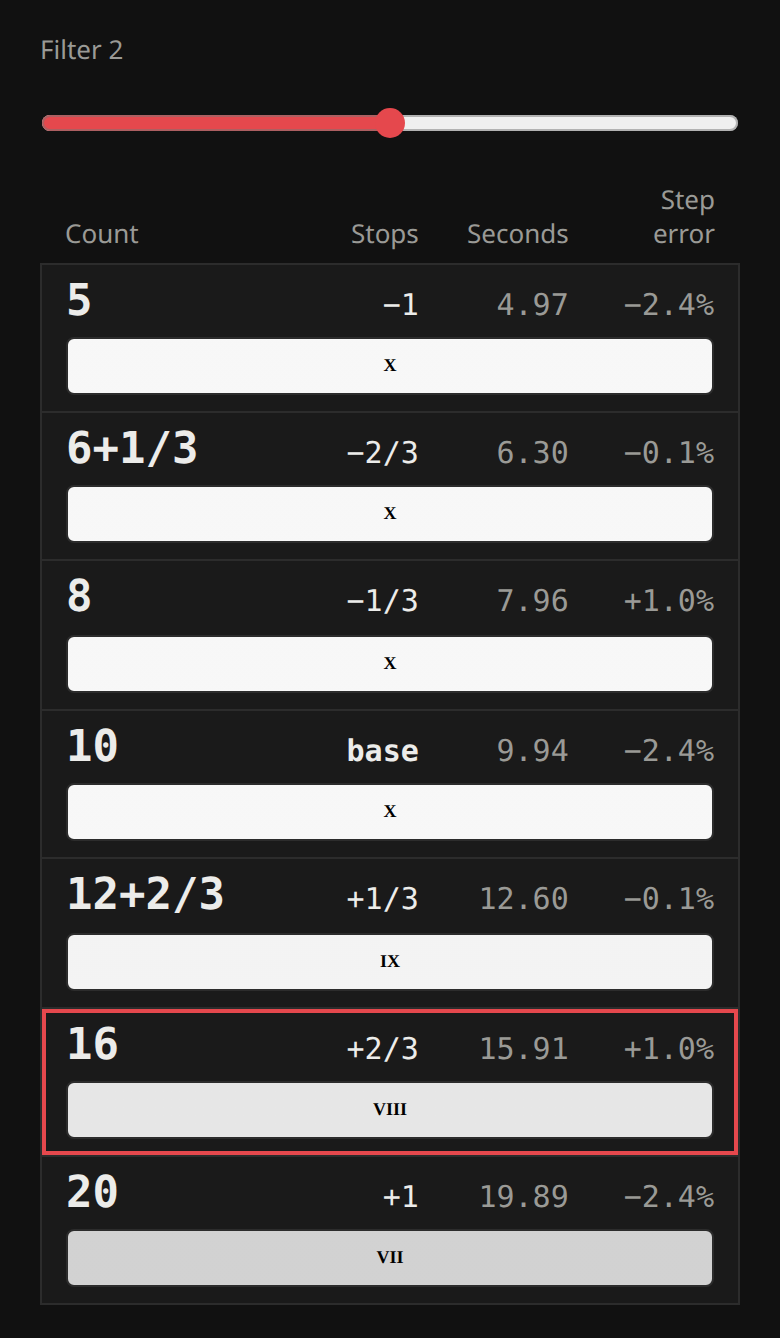
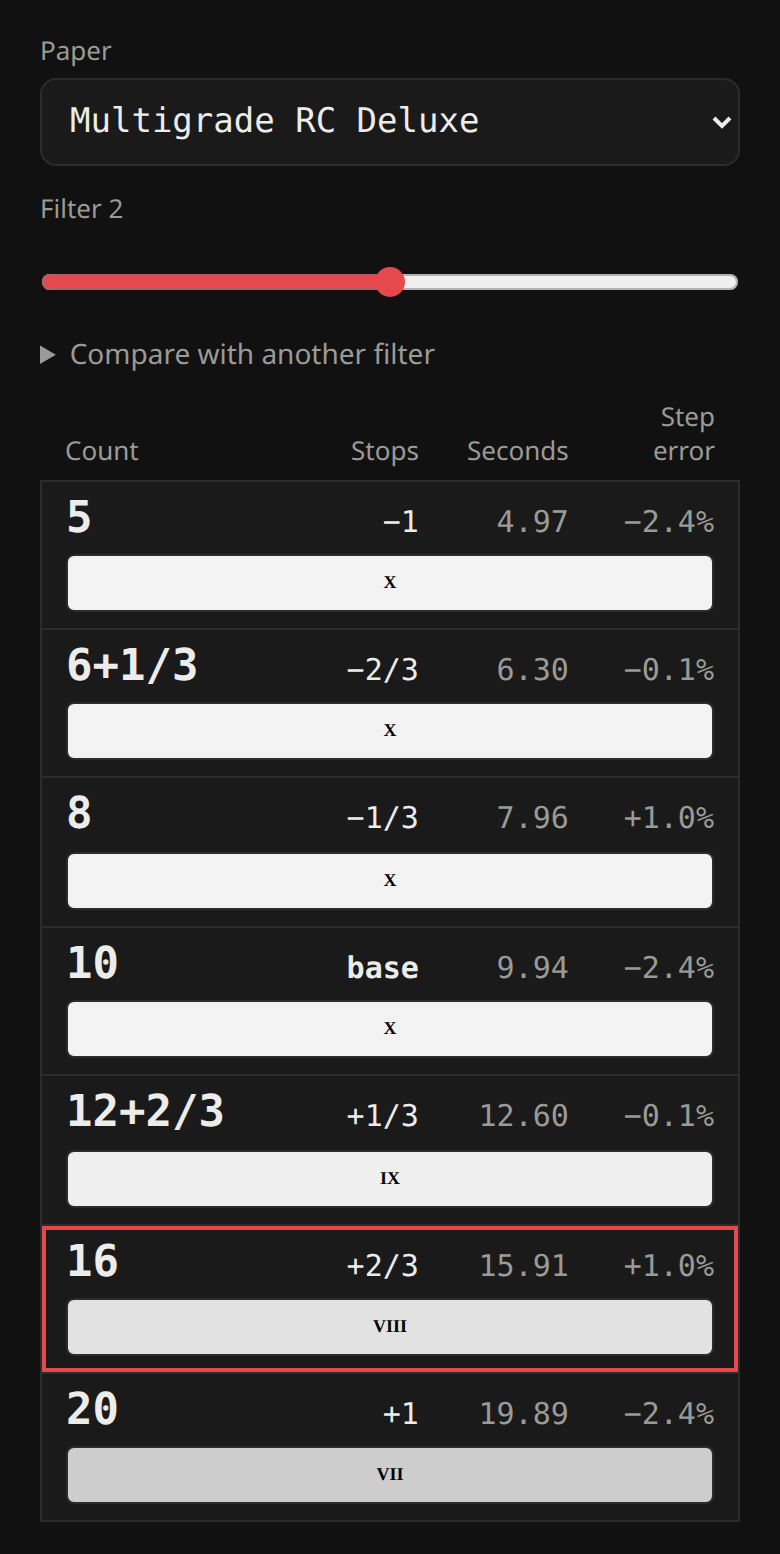
README for timer and papers

diff --git a/README.md b/README.md
@@ -1,5 +1,5 @@
 # striptest
-A tool to quickly find optimal tempo settings for f/stop printing with a physical metronome in the darkroom.
+A tool for planning f/stop teststrips in the darkroom, and for finding the optimal tempo settings for timing them with a physical metronome.
 
 **Use it right here: https://binflush.github.io/striptest/**
 ## Overview
@@ -7,11 +7,11 @@ A tool to quickly find optimal tempo settings for f/stop printing with a physica
 
 It started out as a Python script that I wrote for my own use, to be run on a laptop while planning a printing session. That works fine, but it is not very portable, and the computer I actually carry around is a phone. So the whole thing has been reimplemented as a website, which does the same calculation directly in your browser. There is nothing to install, it fits on a phone screen, and nothing you type is sent anywhere.
 
-The Python script is still here and still works. It is in fact the reference: the website is tested against it on thousands of random settings, so the two always agree on the tempo and the counts. The website has also grown a few things the script never had, like an easy way to tell it which tempos your metronome lacks, and a simulated teststrip. All of it is described below.
+The Python script is still here and still works. It is in fact the reference: the website is tested against it on thousands of random settings, so the two always agree on the tempo and the counts. The website has also grown a few things the script never had. It plans the teststrip no matter how it is going to be timed: with an ordinary timer it simply gives the seconds for every patch, and the metronome is what it suggests to those who don't have one. It also has an easy way to tell it which tempos your metronome lacks, and a simulated teststrip that shows roughly what the patches are going to do to the tones. All of it is described below.
 
 ## Quickstart
 ### On the website
-Open https://binflush.github.io/striptest/, type in your base time, and pick the stepsize and the number of steps. The big red number is the tempo for your metronome, and the table tells you what to count to. That is all there is to it. The section **The website** further down goes through the rest.
+Open https://binflush.github.io/striptest/, type in your base time, and pick the stepsize and the number of steps. The table then gives the seconds for every patch, to be used with a timer. Choose **a metronome** under **Timed with**, and you get a big red number instead, which is the tempo for your metronome, and a table that tells you what to count to. That is all there is to it. The section **The website** further down goes through the rest.
 
 ### With the Python script
 Ensure you have python and numpy installed, download the file `striptest.py`, open a terminal, navigate to where the file is located and run
@@ -60,14 +60,21 @@ Since we have a metronome at hand, there are many other timing options than 60 o
 This is what motivated the creation of this script.
 
 ## The website
-The website lives at https://binflush.github.io/striptest/. It does the same job as the Python script, it just does it in your browser, so it also works on the phone you already have in your pocket. Everything is calculated on your own device.
+The website lives at https://binflush.github.io/striptest/. It does the same job as the Python script and a bit more, and it does it in your browser, so it also works on the phone you already have in your pocket. Everything is calculated on your own device.
 
 The easiest way to explain it is to go through a printing session.
 
 ### A first teststrip
 Let's say we have a fresh negative in the enlarger, and our best guess is that it needs somewhere around 10 seconds. We want a teststrip with 7 patches in 1/3 stop steps around that guess. So we type 10 into **Base, seconds**, choose 1/3 under **Step, stops** and 7 under **Steps**. These happen to be the defaults, so in this case we just open the website:
 
-<p align="center"><img src="figures/web-first-strip.png" width="300" align="top" alt="The top of the website with a base of 10 seconds, 7 steps of 1/3 stop: tempo 181, counting every 3rd beat"> <img src="figures/web-first-strip-table.png" width="300" align="top" alt="The table underneath: the count for each patch, with a strip of tones under every row"></p>
+<p align="center"><img src="figures/web-timer.png" width="300" align="top" alt="The top of the website with a base of 10 seconds, 7 steps of 1/3 stop, timed with a timer"> <img src="figures/web-timer-table.png" width="300" align="top" alt="The table underneath: what to add for each patch and the seconds it ends up with, with a strip of tones under every row"></p>
+
+Until we say otherwise, the website takes the teststrip to be **Timed with** a timer. The table has one row for each patch. **Seconds** is the exposure the patch should end up with, and **Add** is how to get there when the patches are covered one by one: the whole strip first gets 5.0 seconds, then we cover the first patch and give the rest 1.3 seconds more, cover the next one and give the rest another 1.6, and so on. If we would rather expose every patch on its own, each simply gets what it says under **Seconds**. The times are rounded to tenths of a second, which is about what a timer can be set to.
+
+### Without a timer
+With a timer that is all there is to it. Without one these times are hopeless, since nobody can count to 1.3 seconds, and this is where the metronome comes in. The line under the settings has already been hinting at it. Under **Timed with** we choose **a metronome**, which the website remembers until we choose something else:
+
+<p align="center"><img src="figures/web-first-strip.png" width="300" align="top" alt="The top of the website, now timed with a metronome: tempo 181, counting every 3rd beat"> <img src="figures/web-first-strip-table.png" width="300" align="top" alt="The table underneath: the count for each patch, with a strip of tones under every row"></p>
 
 The big red number tells us to set the metronome to 181, and the line under it to count every 3rd beat. The table is read exactly like the output of the Python script. We start the exposure on the count of zero, cover the first patch on the count of 5, the next one on 6+1/3, then on 8, 10 and so on. **Seconds** is the time each patch really gets, and **Step error** is how far that is from the ideal time, as a percentage of the stepsize. Here no patch is more than 2.4% of a third of a stop off, which is quite a bit better than what counting half seconds gave us in the **Background** section.
 
@@ -81,17 +88,17 @@ Most likely it can't. Many metronomes have gaps between their tempos, especially
 The tempos we have skipped are remembered on the device, so after a few printing sessions the website knows the metronome, and stops suggesting tempos it doesn't have. If one was skipped by mistake, pressing it in the **Skipping** list brings it back, and to start over entirely there is a **Forget all skipped tempos** button under **Metronome and counting**.
 
 ### How big should the steps be?
-Before any paper is exposed, the little strips under each row are worth a look. They are a rough simulation of what the patches are going to look like, expressed in the zones of the Zone System: 0 is full black, V is middle grey and X is paper white.
+Before any paper is exposed, the little strips under each row are worth a look, whichever way the teststrip is timed. They are a rough simulation of what the patches are going to look like, expressed in the zones of the Zone System: 0 is full black, V is middle grey and X is paper white.
 
 The strips are read up and down. A place along the strips is one part of the picture. The row with the box around it is the **reference**, the exposure we are hoping is the right one, and its strip is simply the scale from Zone 0 to Zone X. Now we pick a tone in the reference row, say a highlight in Zone VIII, and look straight up and down. The zone we find at that same place in another row is what that highlight prints as in that patch. In the table above, the Zone VIII highlight has become a VII one patch darker than the base, and a VI a full stop darker. Going the other way it is a IX one patch lighter, and after that it is gone: paper white.
 
-How much happens from one patch to the next depends a lot on the filter, which is set with the **Filter** slider above the table. Here is the same teststrip at filter 00, 2 and 5:
+How much happens from one patch to the next depends on the paper, which is chosen under **Paper**, and a lot on the filter, which is set with the **Filter** slider right below it. Here is the same teststrip at filter 00, 2 and 5:
 
 <p align="center"><img src="figures/web-filter-00.png" width="260" alt="The teststrip at filter 00: the strips hardly change from row to row"> <img src="figures/web-first-strip-table.png" width="260" alt="The teststrip at filter 2"> <img src="figures/web-filter-5.png" width="260" alt="The teststrip at filter 5: the strips change a lot from row to row"></p>
 
-At filter 00 it takes almost a whole stop to move a tone by one zone, so patches a third of a stop apart are hard to tell from each other, and I would go for bigger steps. At filter 5 a third of a stop is close to two zones, neighbouring patches look nothing alike, and finer steps are needed if we want to land anywhere near the right exposure.
+At filter 00 it takes most of a stop to move a tone by one zone, so patches a third of a stop apart are hard to tell from each other, and I would go for bigger steps. At filter 5 a third of a stop is more than a zone and a half, neighbouring patches look nothing alike, and finer steps are needed if we want to land anywhere near the right exposure.
 
-How seriously should these strips be taken? Not very. The tones come from the characteristic curves in Ilford's data sheet for Multigrade IV RC Deluxe, developed the way Ilford developed it. Only Zone V is a fixed tone (18% grey). Zone 0 and Zone X are simply the blackest and the whitest the paper gets, and the zones in between are placed where a normally developed negative would put them at filter 2. Your paper, your developer and above all your negative are different. The strips are there to build intuition, and they do not replace the actual teststrip. They do however use the exposures we actually get from the metronome, including the small errors in the table.
+How seriously should these strips be taken? Not very. The tones come from the characteristic curves in Ilford's data sheet for the chosen paper, which is either the current Multigrade RC Deluxe or the Multigrade IV RC Deluxe it replaced, developed the way Ilford developed it. Only Zone V is a fixed tone (18% grey). Zone 0 and Zone X are simply the blackest and the whitest the paper gets, and the zones in between are placed where a normally developed negative would put them at filter 2 on Multigrade IV. They are the same tones on both papers. Your paper, your developer and above all your negative are different. The strips are there to build intuition, and they do not replace the actual teststrip. They do however use the exposures we actually get, including the small errors in the table. With a timer that is the rounding to tenths of a second.
 
 ### Reading the teststrip
 The teststrip is developed and dry, and the patch at +2/3 looks about right, but we would like to know what happens to the highlights if we go a little either way. We tap that row, and it becomes the reference (on the left below). Everything is now reckoned from the patch we believe in.
@@ -109,12 +116,12 @@ The highlights look right at 16 seconds, but let's say the shadows do not. The d
 
 Every row has now got a second strip under its first. It is the same patch, exposed for the same number of seconds, but through filter 3 instead of filter 2. The strips are read exactly as before, and a place along them is still one part of the picture. So we find our shadow in the upper strip of the reference row, and look at the strip right under it. Sliding a finger along the row works here too (on the right above): the shadow that is a III at filter 2 becomes a II at filter 3, which is what we wanted.
 
-And the highlights? The same exercise on the Zone VIII highlight shows that filter 3 leaves it in Zone VIII at 16 seconds, only a little lighter than it was, and that it is still an VIII at 20 seconds, where filter 2 had already turned it into a VII. So filter 3 it is, and the right exposure is probably a little above 16 seconds.
+And the highlights? The same exercise on the Zone VIII highlight shows that filter 3 lifts it to a IX at 16 seconds, and that it is an VIII again at 20 seconds. So filter 3 it is, and the right exposure is probably a third of a stop or so above 16 seconds.
 
-The two filters are lined up by the paper speeds in Ilford's data sheet. Multigrade filters are speed matched: 00 to 3 need the same exposure, and 4 and 5 need one stop more. What two filters of the same speed have in common is a tone just a bit lighter than middle grey, and from there a harder filter pushes everything lighter further up, and everything darker further down. With other filters, a colour head, or filters that have faded over the years this is going to be off, so the same goes as before: the strips are there to build intuition.
+The two filters are lined up by the paper speeds in Ilford's data sheet. Multigrade filters are speed matched: 00 to 3 need the same exposure, and 4 and 5 need more. On Multigrade IV that is a whole stop, and on the current Multigrade RC Deluxe only about an eighth of a stop, if the data sheet is to be believed. What two filters of the same speed have in common is a tone just a bit lighter than middle grey, and from there a harder filter pushes everything lighter further up, and everything darker further down. With other filters, a colour head, or filters that have faded over the years this is going to be off, so the same goes as before: the strips are there to build intuition.
 
 ### The second teststrip
-So we go up to filter 3, and expect the right exposure to be a little above 16 seconds. We want a finer teststrip that starts just above 16 seconds: 5 patches in 1/6 stop steps. We type 16 into **Base, seconds**, choose 1/6 and 5 steps, and open **Metronome and counting**. There we set **Base is step** to 0, which places the base one step *before* the first patch, like `-p -1` does in the script (leave it empty and the base lands in the middle, and 1 puts it on the first patch). Since we want to stop the exposure between each patch this time, we also tick **Count each step from zero, adding to the one before**, and set **Count every** to beat, which makes that kind of counting easier:
+So we go up to filter 3, and expect the right exposure to be somewhat above 16 seconds. We want a finer teststrip that starts just above 16 seconds: 5 patches in 1/6 stop steps. We type 16 into **Base, seconds**, choose 1/6 and 5 steps, and open **Metronome and counting**. There we set **Base is step** to 0, which places the base one step *before* the first patch, like `-p -1` does in the script (leave it empty and the base lands in the middle, and 1 puts it on the first patch). With a timer the same field is found under **Placing the base**. Since we want to stop the exposure between each patch this time, we also tick **Count each step from zero, adding to the one before**, and set **Count every** to beat, which makes that kind of counting easier:
 
 <p align="center"><img src="figures/web-second-strip-settings.png" width="300" align="top" alt="Base 16 seconds, 5 steps of 1/6 stop, base placed before the first patch, counting every beat and each step from zero"> <img src="figures/web-second-strip.png" width="300" align="top" alt="The result: tempo 194, and the counts 58, 7, 8, 9 and 10"></p>
 
@@ -283,7 +290,7 @@ If the python script was responsible for timing during exposure, that would be a
 
 Software of this sorts would also need some way to reliably turn off any lights (screen, backlight keyboard, power switch, etc...) during exposure, which is a nontrivial task. Arduino-kits or commercial f-stop timers are better suited for this.
 
-The same goes for the website, which purposely has no metronome built in. If a timer is what you are after, something like [GoTimer's enlarger timer](https://gotimer.org/photography/enlarger-timer) is a better fit.
+The same goes for the website. It can plan a teststrip for a timer, but it purposely has neither a timer nor a metronome built in. If a timer is what you are after, something like [GoTimer's enlarger timer](https://gotimer.org/photography/enlarger-timer) is a better fit.
 
 * **Is this precision necessary**
 
